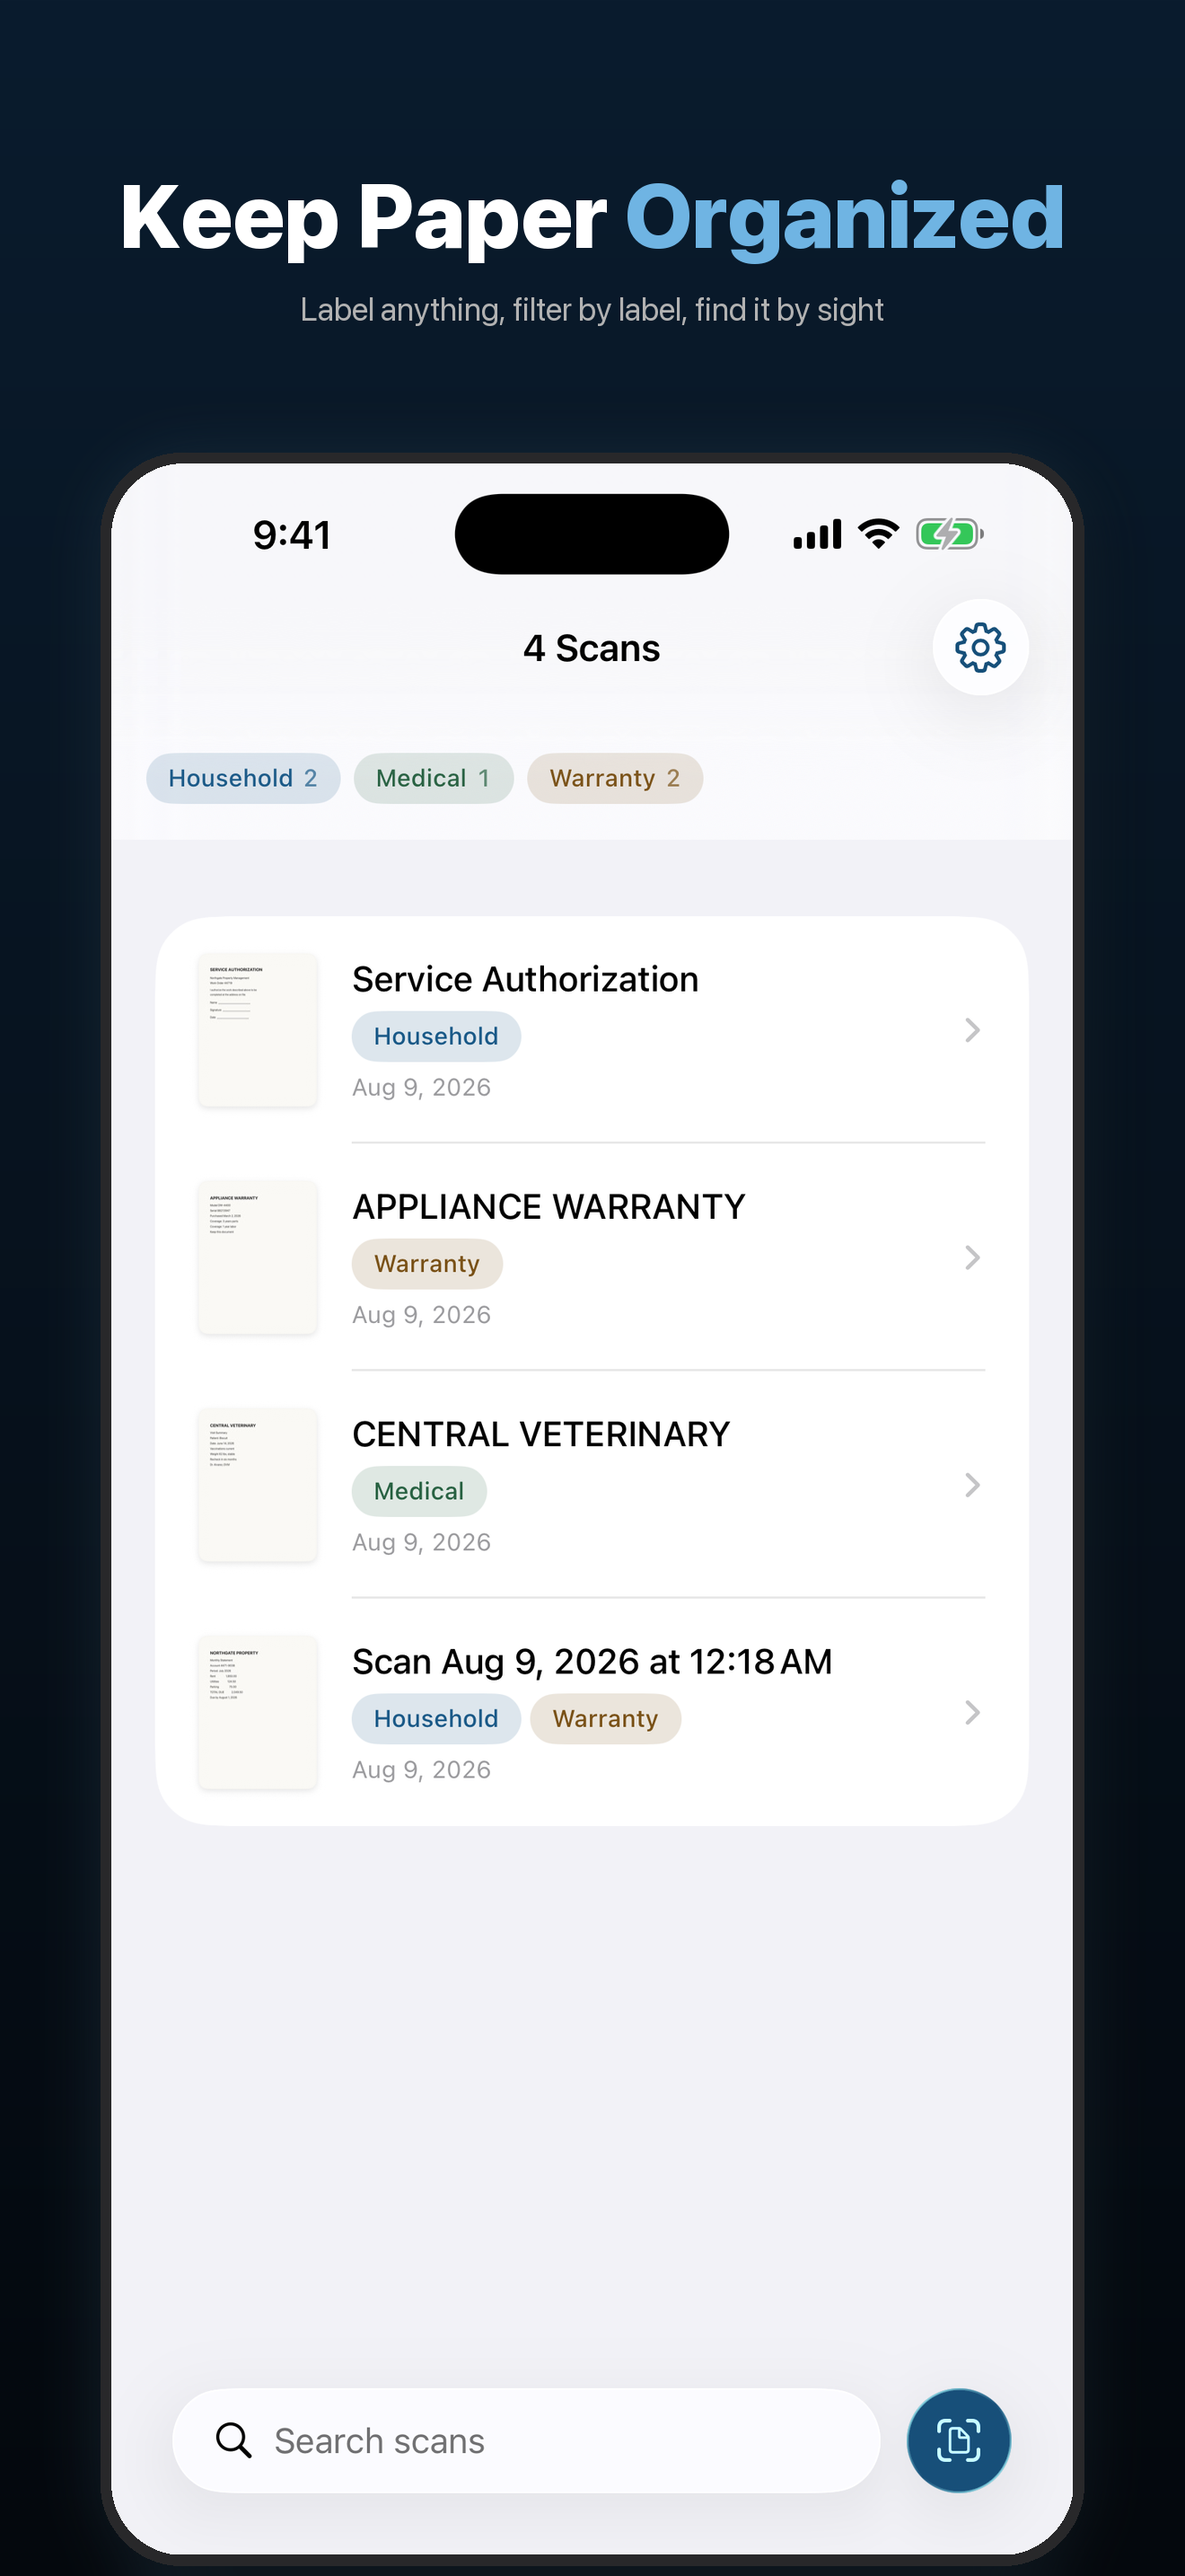
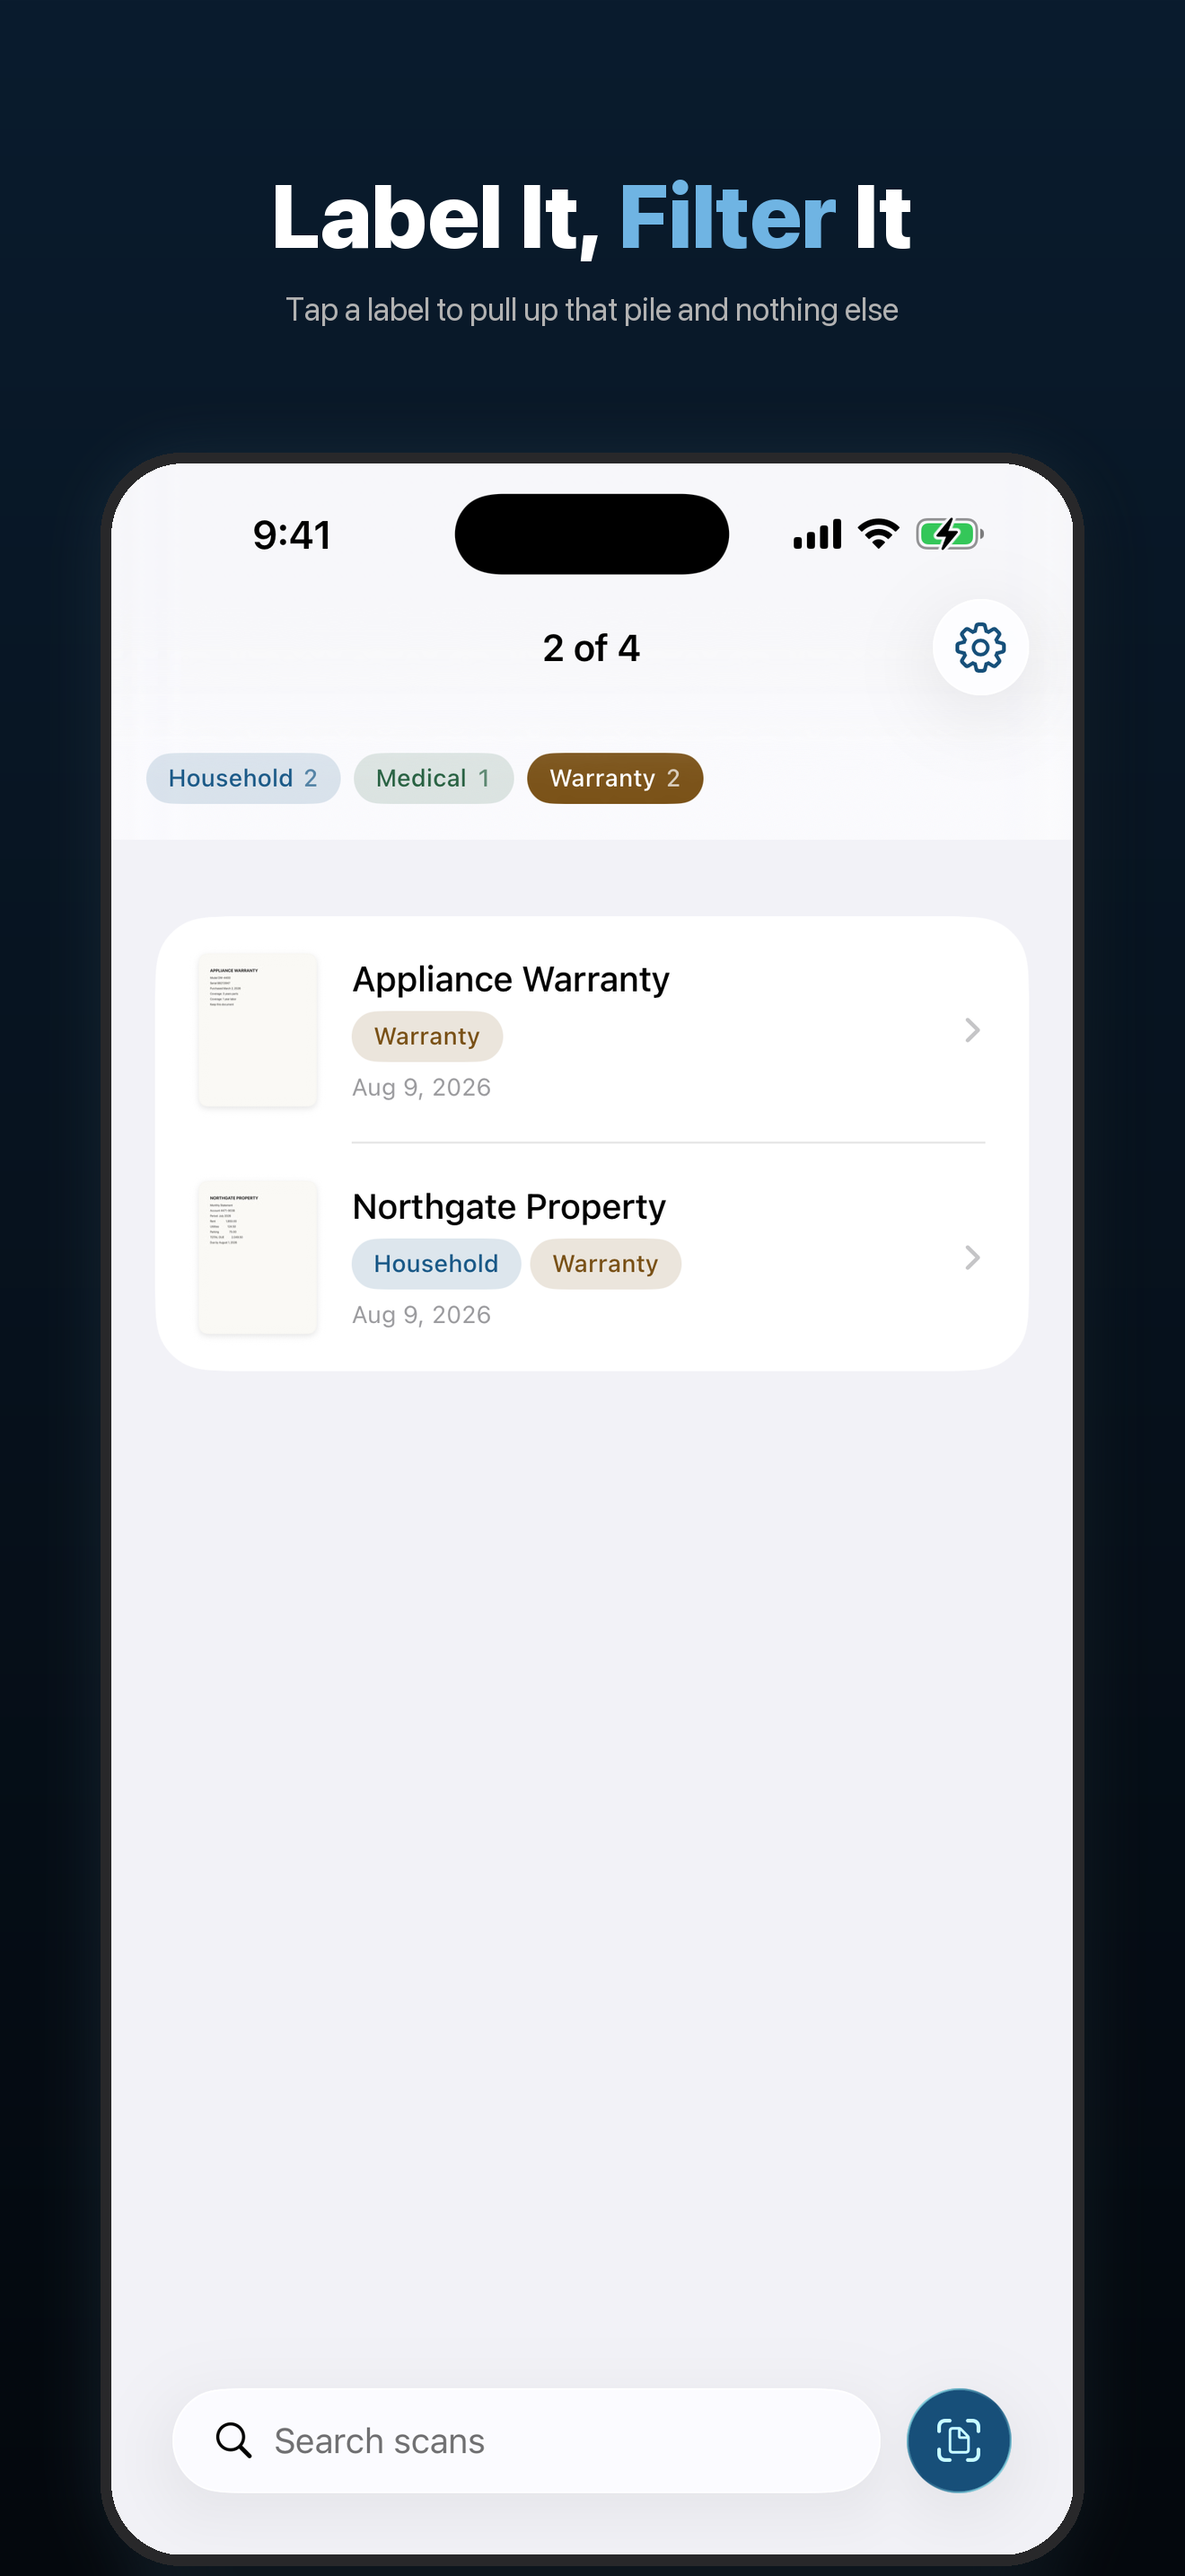
Add search match snippets, wire RevenueCat key, fix screenshot states
Search results now show the matching line from the OCR transcript with the
term highlighted, so a hit whose title doesn't contain the query explains
itself. Searching "biscuit" and getting a vet bill was previously unreadable.

Locked finishes no longer render dimmed. `.disabled(locked)` washed out the
swatch, which is the thing being sold; the button already refuses the tap and
the Supporter badge says why.

Sample documents get explicit titles. OCR title-detection falls through on the
synthetic pages, leaving a date-named row in App Store screenshots.

RevenueCat key is Ream's own public appl_ key (ships in the binary by design).

New DEBUG launch arguments for capture states that were otherwise unreachable:
--filter-label, --locked. Screenshot mode now suppresses engagement prompts and
onboarding, both of which covered the screen being captured, and --show-finishes
opens Settings itself rather than assuming it was already open.

Claude-Session: https://claude.ai/code/session_01Vuc3JASA8YL1eq6phS3itZ

diff --git a/Ream/Views/DocumentListView.swift b/Ream/Views/DocumentListView.swift
@@ -212,12 +212,19 @@ struct DocumentListView: View {
                 if LaunchArgument.isPresent(LaunchArgument.seedSamples), documents.isEmpty {
                     await SampleScans.generate(into: context, pipeline: pipeline)
                 }
-                if LaunchArgument.isPresent(LaunchArgument.showSettings) {
+                // `--show-finishes` deep-links *within* Settings, so it implies opening it.
+                if LaunchArgument.isPresent(LaunchArgument.showSettings)
+                    || LaunchArgument.isPresent(LaunchArgument.showFinishes) {
                     showingSettings = true
                 }
                 if LaunchArgument.isPresent(LaunchArgument.showDetail),
                    let first = documents.first {
                     path.append(first)
+                }
+                if let name = LaunchArgument.stringValue(after: LaunchArgument.filterLabel),
+                   let match = labels.first(where: { $0.name == name }) {
+                    activeLabelIDs = [match.id]
+                    refreshFilter()
                 }
                 if let query = LaunchArgument.stringValue(after: LaunchArgument.search) {
                     searchText = query
@@ -239,7 +246,7 @@ struct DocumentListView: View {
         List {
             ForEach(filtered) { document in
                 NavigationLink(value: document) {
-                    DocumentRow(document: document)
+                    DocumentRow(document: document, query: searchText)
                 }
                 .contextMenu { rowMenu(for: document) }
             }
@@ -355,6 +362,11 @@ struct DocumentListView: View {
     }
 
     private func showPromptIfDue() {
+        #if DEBUG
+        // Seeding runs four scans back to back, which trips the cross-promo's second-scan
+        // threshold and covers the library with a sheet mid-capture.
+        if LaunchArgument.isPresent(LaunchArgument.screenshotMode) { return }
+        #endif
         switch engagement.nextPrompt(isSupporter: supporter.isSupporter) {
         case .review:
             requestReview()
@@ -446,6 +458,45 @@ struct DocumentListView: View {
 
 private struct DocumentRow: View {
     let document: ScannedDocument
+    /// The active search, so a row can show WHY it matched.
+    var query: String = ""
+
+    /// A window of the transcript around the search term, with the term highlighted.
+    ///
+    /// Without this a content match is unexplainable: searching a word that appears inside a
+    /// page returns a document whose title doesn't contain it, and nothing on screen connects
+    /// the two. Mail and Notes both show the matching line for the same reason.
+    ///
+    /// Returns nil when the title already explains the match, so an obvious result doesn't
+    /// carry a redundant second line.
+    private var matchSnippet: AttributedString? {
+        let term = query.trimmingCharacters(in: .whitespaces)
+        guard term.count >= 2,
+              !document.title.localizedCaseInsensitiveContains(term),
+              let hit = document.transcript.range(of: term, options: .caseInsensitive)
+        else { return nil }
+
+        let transcript = document.transcript
+        let lead = transcript.index(hit.lowerBound,
+                                    offsetBy: -34,
+                                    limitedBy: transcript.startIndex) ?? transcript.startIndex
+        let trail = transcript.index(hit.upperBound,
+                                     offsetBy: 34,
+                                     limitedBy: transcript.endIndex) ?? transcript.endIndex
+
+        var text = String(transcript[lead..<trail])
+            .replacingOccurrences(of: "\n", with: " ")
+            .trimmingCharacters(in: .whitespaces)
+        if lead > transcript.startIndex { text = "…" + text }
+        if trail < transcript.endIndex { text += "…" }
+
+        var attributed = AttributedString(text)
+        if let range = attributed.range(of: term, options: .caseInsensitive) {
+            attributed[range].inlinePresentationIntent = .stronglyEmphasized
+            attributed[range].backgroundColor = .accentColor.opacity(0.22)
+        }
+        return attributed
+    }
 
     var body: some View {
         HStack(alignment: .center, spacing: Theme.Spacing.medium) {
@@ -463,6 +514,16 @@ private struct DocumentRow: View {
                     .font(.body.weight(.medium))
                     .foregroundStyle(Theme.primaryText)
                     .lineLimit(2)
+
+                // Sits directly under the title, because it explains the title: this row is
+                // here despite its name not matching what was typed.
+                if let matchSnippet {
+                    Text(matchSnippet)
+                        .font(.caption)
+                        .foregroundStyle(Theme.secondaryText)
+                        .lineLimit(2)
+                        .fixedSize(horizontal: false, vertical: true)
+                }
 
                 if let labels = document.labels, !labels.isEmpty {
                     HStack(spacing: 4) {

diff --git a/Ream/Services/SupporterService.swift b/Ream/Services/SupporterService.swift
@@ -24,10 +24,9 @@ final class SupporterService {
     /// RevenueCat's **public** SDK key. Designed to ship in the binary — it is not a secret
     /// and grants no write access.
     ///
-    /// ⚠ Replace with Ream's own key: RevenueCat → Project settings → API keys → the public
-    /// app-specific key for the iOS app, starting `appl_`. Until then offerings resolve empty
-    /// and the tiers simply do not appear.
-    private static let apiKey = "appl_REPLACE_WITH_REAM_IOS_KEY"
+    /// Ream's own iOS key (RevenueCat → Project settings → API keys). If this is ever swapped
+    /// for another project's key, offerings resolve empty and the tiers simply do not appear.
+    private static let apiKey = "appl_rcLdfntrdWbCQycNUmbqIRjUmVx"
 
     /// The entitlement identifier configured in the RevenueCat dashboard. **Case-sensitive**,
     /// and compared as a plain string — if these two ever disagree, every supporter silently
@@ -131,6 +130,10 @@ final class SupporterService {
 
     private func refreshEntitlement() async {
         #if DEBUG
+        if LaunchArgument.isPresent(LaunchArgument.forceLocked) {
+            isSupporter = false
+            return
+        }
         // Checked before RevenueCat, so the override works with no network and no offering.
         if UserDefaults.standard.bool(forKey: Self.debugOverrideKey) {
             isSupporter = true
@@ -144,6 +147,10 @@ final class SupporterService {
 
     private func applyEntitlement(from info: CustomerInfo) {
         #if DEBUG
+        if LaunchArgument.isPresent(LaunchArgument.forceLocked) {
+            isSupporter = false
+            return
+        }
         if UserDefaults.standard.bool(forKey: Self.debugOverrideKey) {
             isSupporter = true
             return

diff --git a/Ream/Services/SampleScans.swift b/Ream/Services/SampleScans.swift
@@ -64,6 +64,9 @@ enum SampleScans {
             return label
         }
 
+        let sampleTitles = ["Northgate Property", "Central Veterinary",
+                            "Appliance Warranty", "Service Authorization"]
+
         var pages: [UIImage] = documents.map { renderPage(lines: $0) }
         let form = renderForm()
         pages.append(form.image)
@@ -79,7 +82,12 @@ enum SampleScans {
             newest.labels = index == 0
                 ? [labels[0], labels[2]]        // one document with two labels
                 : [labels[index % labels.count]]
-            if index == pages.count - 1 { newest.title = "Service Authorization" }
+            // Titles are set explicitly rather than left to OCR title-detection. On these
+            // synthetic pages the heading is the same weight as the body, so one of them
+            // falls through to the "Scan <date>" fallback — accurate behaviour, but a
+            // date-named row is not what the library looks like once a user has renamed
+            // anything, and these seed the App Store screenshots.
+            newest.title = sampleTitles[index]
         }
         try? context.save()
 

diff --git a/Ream/App/ReamApp.swift b/Ream/App/ReamApp.swift
@@ -72,7 +72,15 @@ private struct RootView: View {
                 OnboardingView()
             }
             .task {
-                if !hasSeenOnboarding {
+                var suppressOnboarding = false
+                #if DEBUG
+                // A fresh install for screenshots starts with onboarding unseen, which then
+                // covers whatever screen was being captured. `--onboarding-page` is how
+                // onboarding itself gets shot.
+                suppressOnboarding = LaunchArgument.isPresent(LaunchArgument.screenshotMode)
+                    && LaunchArgument.intValue(after: LaunchArgument.onboardingPage) == nil
+                #endif
+                if !hasSeenOnboarding, !suppressOnboarding {
                     hasSeenOnboarding = true
                     showingOnboarding = true
                 }

diff --git a/Ream/App/AppPaths.swift b/Ream/App/AppPaths.swift
@@ -102,6 +102,12 @@ enum LaunchArgument {
     static let showFillSign = "--show-fillsign"
     /// Pre-fills the search field, so a search-in-progress can be captured.
     static let search = "--search"
+    /// Pre-selects a label filter by name, so a filtered library can be captured.
+    static let filterLabel = "--filter-label"
+    /// Forces the non-supporter state. Simulators accumulate StoreKit test transactions
+    /// that RevenueCat syncs into a live entitlement, which makes the locked view of the
+    /// finish picker unreachable — and that is the view a new user actually sees.
+    static let forceLocked = "--locked"
     /// Opens Settings straight through to the finish picker.
     static let showFinishes = "--show-finishes"
     /// Hides debug-only chrome while keeping the other arguments working.

diff --git a/Ream/Views/SupporterView.swift b/Ream/Views/SupporterView.swift
@@ -65,7 +65,11 @@ struct SupporterView: View {
                              : locked ? .badge("Supporter") : .none)
         }
         .buttonStyle(.plain)
-        .disabled(locked)
+        // Deliberately NOT `.disabled(locked)`. That dims the whole row including the
+        // swatch, and a washed-out swatch is a poor advert for the thing being sold — the
+        // colour is the entire product. The button already refuses the tap above, and the
+        // "Supporter" badge says why, so nothing is lost by leaving the row at full colour.
+        .accessibilityHint(locked ? "Requires the Supporter purchase" : "")
     }
 
     private var tiers: some View {

diff --git a/CLAUDE.md b/CLAUDE.md
@@ -233,9 +233,9 @@ layer — it makes search a `@Query` predicate instead of parsing every PDF per 
 
 ## Monetization
 
-`SupporterService`, **RevenueCat** (matching PokeArtist and the -rip family). ⚠ The API key
-in `SupporterService.apiKey` is a placeholder — replace it with Ream's own public `appl_` key
-or offerings resolve empty and no tiers appear. Entitlement identifier is `Supporter`,
+`SupporterService`, **RevenueCat** (matching PokeArtist and the -rip family). The public
+`appl_` key in `SupporterService.apiKey` is Ream's own and is meant to ship in the binary —
+it is not a secret. Entitlement identifier is `Supporter`,
 case-sensitive; if it disagrees with the dashboard every supporter silently becomes a
 non-supporter.
 
@@ -306,7 +306,9 @@ All tokens in `Theme.swift`. Semantic names only; no raw colors, radii, or spaci
 
 **Accent finishes** (`AccentFinish`): Blueprint is the free default; Graphite, Manila,
 Red Pen and Chalkboard need Supporter. Named as desk materials, never as a color picker.
-Locked finishes render at **full color** — never greyed, never padlocked, never badged.
+Locked finishes render at **full color** with a plain `Supporter` badge — never greyed,
+never padlocked. ⚠ Do not add `.disabled(locked)` to the row: it dims the swatch, and the
+swatch is the thing being sold. The button's own `guard` already refuses the tap.
 
 ⚠ **A filled control needs a DIFFERENT accent value than an icon does.** `color(for:)` goes
 light in dark mode so an icon reads on a near-black canvas — but a prominent button fills
